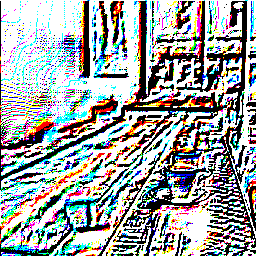
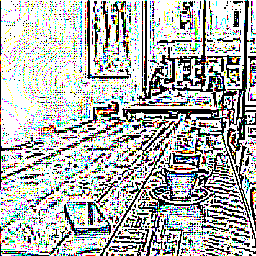
Finished ex. 6.7

diff --git a/Labs/HistogramRGB.py b/Labs/HistogramRGB.py
@@ -130,7 +130,7 @@ class HistogramRGB:
 
         result = np.zeros((length, width, 3), np.uint8)
 
-        low, up = -(int(dim / 2)), (int(dim / 2))
+        low, up = -(int(dim / 2)), (int(dim / 2) + 1)
 
         for color in range(3):
             for l in range(length):
@@ -138,7 +138,6 @@ class HistogramRGB:
                     n = 0
                     threshold = 0
                     pom = matrix[l, w][color]
-
                     for lOff in range(low, up):
                         for wOff in range(low, up):
                             lSafe = l if ((l + lOff) > (low + length)) else (l + lOff)
@@ -153,7 +152,7 @@ class HistogramRGB:
         path = str(ex) + str(pictureName) + '_oneThresholdLocal.png'
         self.savePicture(result, path)
 
-    def multiThresholdHistogram(self, bins):
+    def multiThresholdLocalHistogram(self, dim=3, bins=4):
         length, width, pictureName = self.pic.getPictureParameters()
         matrix = self.pic.getGreyMatrix()
         # save basic histogram of modified picture
@@ -162,93 +161,99 @@ class HistogramRGB:
         self.calculateHistogram(matrix, path)
         result = np.zeros((length, width, 3), np.uint8)
 
-        vMax = [0] * 3
-        vMin = [255] * 3
+        low, up = -(int(dim / 2)), (int(dim / 2) + 1)
+
+        for l in range(length):
+            for w in range(width):
+                pom = matrix[l, w]
+                vMax = [0] * 3
+                vMin = [255] * 3
+                for lOff in range(low, up):
+                    for wOff in range(low, up):
+                        lSafe = l if ((l + lOff) > (low + length)) else (l + lOff)
+                        wSafe = w if ((w + wOff) > (low + width)) else (w + wOff)
+                        pom = matrix[lSafe, wSafe]
+                        for k in range(3):
+                            vMax[k] = max(vMax[k], pom[k])
+                            vMin[k] = min(vMin[k], pom[k])
+                scale = [0] * 3
+                for k in range(3):
+                    scale[k] = vMax[k] / (bins - 1)
+                    if scale[k] == 0:
+                        scale[k] = 1
+                for k in range(3):
+                    pom[k] = int(round(pom[k] / scale[k])) * scale[k]
+                result[l, w] = pom
+
+        path = str(ex) + str(pictureName) + '_' + str(bins) + 'ThresholdLocal_histogram.png'
+        self.calculateHistogram(result, path)
+        path = str(ex) + str(pictureName) + '_' + str(bins) + 'ThresholdLocal.png'
+        self.savePicture(result, path)
+
+    def oneThresholdGlobalHistogram(self):
+        length, width, pictureName = self.pic.getPictureParameters()
+        matrix = self.pic.getGreyMatrix()
+        # save basic histogram of modified picture
+        ex = './ExEffects/6/66/'
+        path = str(ex) + str(pictureName) + '_histogram.png'
+        self.calculateHistogram(matrix, path)
+
+        result = np.zeros((length, width, 3), np.uint8)
+        added = [0] * 3
+        mean = [0] * 3
 
         for color in range(3):
             for l in range(length):
                 for w in range(width):
                     pom = matrix[l, w][color]
-                    if pom > vMax[color] and pom != 255:
+                    added[color] += pom
+            mean[color] = int(round(added[color] / (length * width)))
+
+        for color in range(3):
+            for l in range(length):
+                for w in range(width):
+                    pom = matrix[l, w][color]
+                    result[l, w][color] = 0 if (pom < mean[color]) else 255
+
+        path = str(ex) + str(pictureName) + '_oneThresholdGlobal_histogram.png'
+        self.calculateHistogram(result, path)
+        path = str(ex) + str(pictureName) + '_oneThresholdGlobal.png'
+        self.savePicture(result, path)
+
+    def multiThresholdGlobalHistogram(self, bins=4):
+        length, width, pictureName = self.pic.getPictureParameters()
+        matrix = self.pic.getGreyMatrix()
+        # save basic histogram of modified picture
+        ex = './ExEffects/6/67/'
+        path = str(ex) + str(pictureName) + '_histogram.png'
+        self.calculateHistogram(matrix, path)
+
+        result = np.zeros((length, width, 3), np.uint8)
+        vMax = [0] * 3
+        vMin = [255] * 3
+        scale = [0] * 3
+
+        for color in range(3):
+            for l in range(length):
+                for w in range(width):
+                    pom = matrix[l, w][color]
+                    if pom > vMax[color]:
                         vMax[color] = pom
-                    if pom < vMin[color]:
+                    if pom > vMin[color]:
                         vMin[color] = pom
 
-        scale = [0] * 3
         for color in range(3):
             scale[color] = vMax[color] / (bins - 1)
 
         for color in range(3):
             for l in range(length):
                 for w in range(width):
-                    pom = int(round(matrix[l, w][color] / scale[color])) * scale[color]
-                    if pom > 255:
-                        pom = 255
-                    elif pom < 0:
-                        pom = 0
-                    result[l, w][color] = pom
+                    pom = matrix[l, w][color]
+                    result[l, w][color] = int(round(pom) / scale[color]) * scale[color]
 
-        path = str(ex) + str(pictureName) + '_' + str(bins) + 'Threshold_histogram.png'
+        path = str(ex) + str(pictureName) + '_multiThresholdGlobal_histogram.png'
         self.calculateHistogram(result, path)
-        path = str(ex) + str(pictureName) + '_' + str(bins) + 'Threshold.png'
-        self.savePicture(result, path)
-
-    def localHistogram(self):
-        length, width, pictureName = self.pic.getPictureParameters()
-        matrix = self.pic.getGreyMatrix()
-        # save basic histogram of modified picture
-        ex = './ExEffects/5/54/'
-        path = str(ex) + str(pictureName) + '_histogram.png'
-        self.calculateHistogram(matrix, path)
-        result = np.zeros((length, width), np.uint8)
-
-        left, right = -(int(round(3 / 2))), int(round(3 / 2) + 1)
-
-        for l in range(length):
-            for w in range(width):
-                n = 0
-                threshold = 0
-                pom = matrix[l, w]
-
-                for lOff in range(left, right):
-                    for wOff in range(left, right):
-                        lSafe = l if ((l + lOff) > (left + length)) else (l + lOff)
-                        wSafe = w if ((w + wOff) > (left + width)) else (w + wOff)
-                        threshold += matrix[lSafe, wSafe]
-                        n += 1
-                threshold = int(round(threshold / n))
-                result[l, w] = 0 if (pom < threshold) else 255
-
-        path = str(ex) + str(pictureName) + '_local_histogram.png'
-        self.calculateHistogram(result, path)
-        path = str(ex) + str(pictureName) + '_local.png'
-        self.savePicture(result, path)
-
-    def globalHistogram(self):
-        length, width, pictureName = self.pic.getPictureParameters()
-        matrix = self.pic.getGreyMatrix()
-        # save basic histogram of modified picture
-        ex = './ExEffects/5/55/'
-        path = str(ex) + str(pictureName) + '_histogram.png'
-        self.calculateHistogram(matrix, path)
-        result = np.zeros((length, width), np.uint8)
-
-        sum = 0
-
-        for l in range(length):
-            for w in range(width):
-                sum += matrix[l, w]
-
-        mean = int(round(sum / (length * width)))
-
-        for l in range(length):
-            for w in range(width):
-                pom = matrix[l, w]
-                result[l, w] = 0 if (pom < mean) else 255
-
-        path = str(ex) + str(pictureName) + '_global_histogram.png'
-        self.calculateHistogram(result, path)
-        path = str(ex) + str(pictureName) + '_global.png'
+        path = str(ex) + str(pictureName) + '_multiThresholdGlobal.png'
         self.savePicture(result, path)
 
 if __name__ == '__main__':
@@ -259,12 +264,12 @@ if __name__ == '__main__':
     plot.calculateHistogram(matrix, path)
     plot.moveHistogram(-50)
     plot.extendHistogram()
-    plot.oneThresholdHistogram()
-    plot.multiThresholdHistogram(4)
+    plot.oneThresholdLocalHistogram()
+    plot.multiThresholdLocalHistogram()
     plot.localHistogram()
     plot.globalHistogram()
     '''
     plot = HistogramRGB()
-    plot.oneThresholdLocalHistogram()
+    plot.multiThresholdGlobalHistogram()
     plot2 = HistogramRGB('./RawPictures/kawa.png')
-    plot2.oneThresholdLocalHistogram()
+    plot2.multiThresholdGlobalHistogram()
